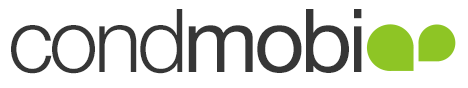
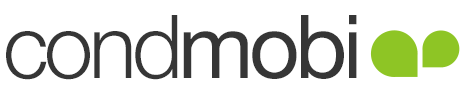
update headers and welcome images

Changed region(s): [[0.0, 0.0909, 0.9914, 0.8636], [0.7511, 0.0909, 0.7811, 0.2727]]

diff --git a/src/less/app.less b/src/less/app.less
@@ -103,13 +103,12 @@ a[disabled] {
 	}
 
   .navbar-brand{
-    padding: 10px;
+    padding: 0px;
     span{
       vertical-align: sub;
     }
     img{
-      max-height: 35px;
-      margin-top: -5px;
+      max-height: 49px;
     }
   }
 	.btn {
